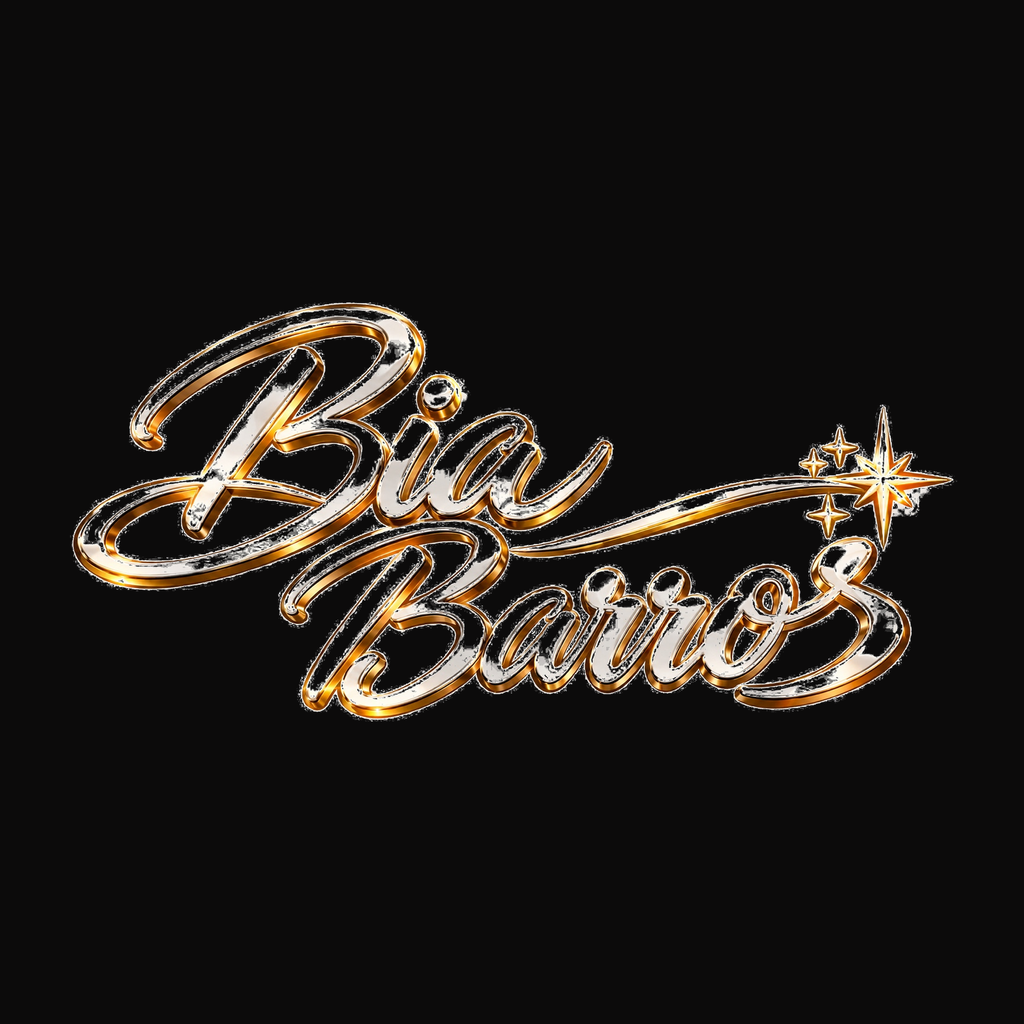
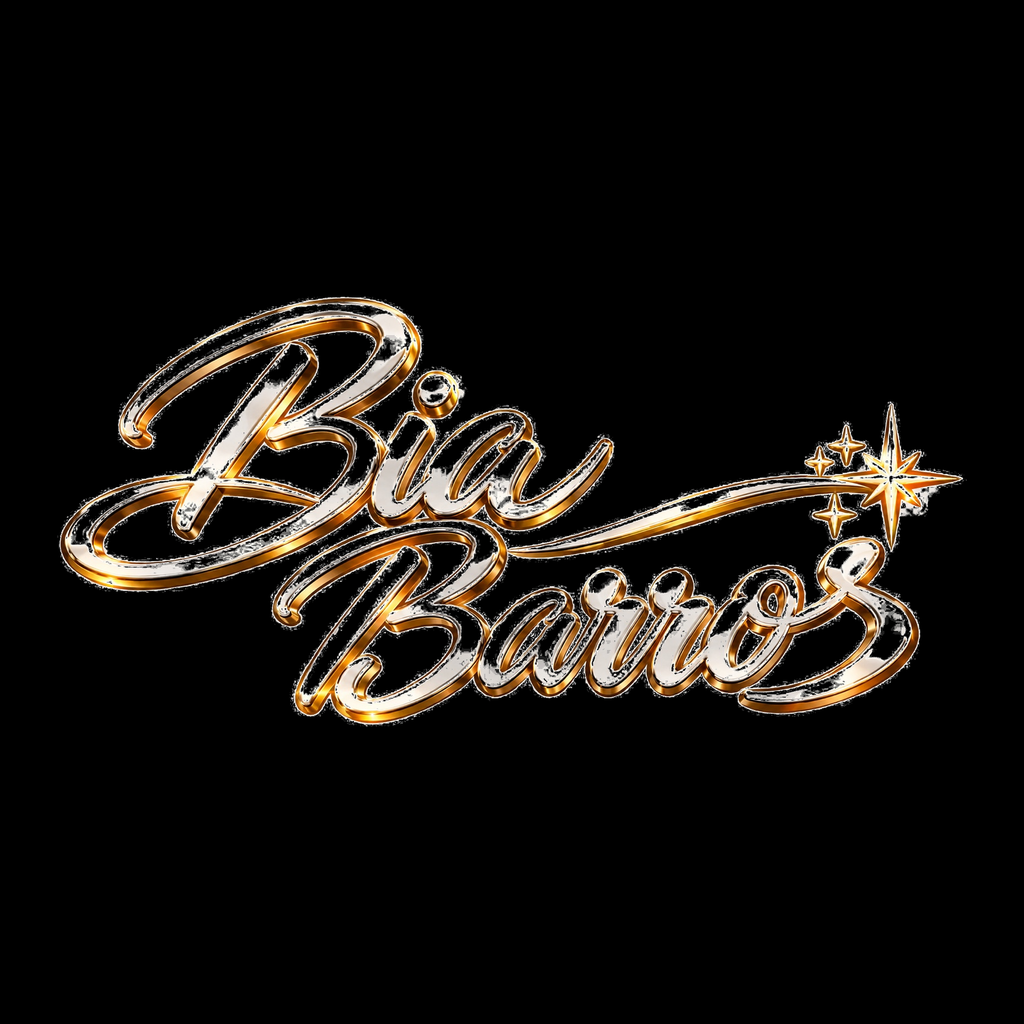
Add files via upload

Changed region(s): [[0.0625, 0.2812, 0.9375, 0.7188]]

diff --git a/app.js b/app.js
@@ -363,8 +363,8 @@
     <section class="card"><div class="section-head"><h2>Páginas e menus</h2></div><p class="small muted">Renomeie, mova para cima ou para baixo e oculte páginas. "Conta e backup" continua acessível.</p>
       ${sections.map((p,i)=>`<div class="config-row"><div class="config-name"><strong>${esc(p.label)}</strong><span class="muted small">${esc(p.id)}</span></div><div class="inline-actions">${button('Renomear','rename-page-'+p.id,'tiny')}${button('↑','page-up-'+p.id,'tiny',i===0?'disabled':'')}${button('↓','page-down-'+p.id,'tiny',i===sections.length-1?'disabled':'')}${p.id!=='ajustes'?button(p.visible===false?'Mostrar':'Ocultar','toggle-page-'+p.id,'soft tiny'):''}</div></div>`).join('')}</section>
     <section class="card" style="margin-top:16px"><div class="compact-top"><h2>Categorias das anotações</h2>${button('＋ Categoria','new-category','primary')}</div>${state.settings.categories.map(c=>`<div class="config-row"><strong>${esc(c)}</strong><div class="inline-actions">${button('Renomear','rename-category-'+encodeURIComponent(c),'tiny')}${c!=='Geral'?button('Excluir','delete-category-'+encodeURIComponent(c),'danger tiny'):''}</div></div>`).join('')}</section>
-    <section class="card" style="margin-top:16px"><div class="section-head"><h2>Campos do cadastro de shows</h2></div><p class="muted small">Renomeie, reorganize ou remova campos do formulário. Data e cidade continuam obrigatórios. Remover um campo do formulário não apaga informações de shows antigos.</p>${showFields().filter(f=>f.visible!==false).map((f,i,a)=>`<div class="config-row"><div class="config-name"><strong>${esc(f.label)}</strong><span class="muted small">${esc(f.id)}${f.visible===false?' • removido do formulário':''}</span></div><div class="inline-actions">${button('Renomear','show-label-'+f.id,'tiny')}${button('↑','show-up-'+f.id,'tiny',i===0?'disabled':'')}${button('↓','show-down-'+f.id,'tiny',i===a.length-1?'disabled':'')}${f.id==='date'||f.id==='city'?'':button('Excluir','show-toggle-'+f.id,'danger tiny')}</div></div>`).join('')}</section>
-    <section class="card" style="margin-top:16px"><div class="compact-top"><h2>Campos extras dos shows</h2>${button('＋ Campo','new-field','primary')}</div><p class="muted small">Crie novos campos de texto, data e horário, que aparecerão no cadastro e nos detalhes de cada show.</p>${state.settings.customFields.length?state.settings.customFields.map(f=>`<div class="config-row"><strong>${esc(f.label)}</strong><div class="inline-actions">${button('Editar','edit-field-'+f.id,'tiny')}${button('Excluir','delete-field-'+f.id,'danger tiny')}</div></div>`).join(''):empty('Sem campos adicionais','Adicione campos exclusivos da sua produção.')}</section>
+    <section class="card" style="margin-top:16px"><div class="compact-top"><h2>Campos do cadastro de shows</h2>${button("＋ Adicionar campo","new-field","primary")}</div><p class="muted small">Renomeie, reorganize ou remova campos do formulário. Data e cidade continuam obrigatórios. Remover um campo do formulário não apaga informações de shows antigos.</p>${showFields().filter(f=>f.visible!==false).map((f,i,a)=>`<div class="config-row"><div class="config-name"><strong>${esc(f.label)}</strong><span class="muted small">${esc(f.id)}${f.visible===false?' • removido do formulário':''}</span></div><div class="inline-actions">${button('Renomear','show-label-'+f.id,'tiny')}${button('↑','show-up-'+f.id,'tiny',i===0?'disabled':'')}${button('↓','show-down-'+f.id,'tiny',i===a.length-1?'disabled':'')}${f.id==='date'||f.id==='city'?'':button('Excluir','show-toggle-'+f.id,'danger tiny')}</div></div>`).join('')}
+      ${state.settings.customFields.map((f,i,a)=>`<div class="config-row"><div class="config-name"><strong>${esc(f.label)}</strong><span class="muted small">Campo adicionado • ${esc(f.type)}</span></div><div class="inline-actions">${button('Editar','edit-field-'+f.id,'tiny')}${button('↑','extra-up-'+f.id,'tiny',i===0?'disabled':'')}${button('↓','extra-down-'+f.id,'tiny',i===a.length-1?'disabled':'')}${button('Excluir','delete-field-'+f.id,'danger tiny')}</div></div>`).join('')}</section>
     <section class="card" style="margin-top:16px"><h2>Cor de destaque</h2><div class="inline-actions">${[['#f58b29','Âmbar'],['#eab0c9','Rosa claro'],['#54a5e4','Azul'],['#71c7a0','Verde']].map(([color,label])=>button(label,'theme-'+color,'tiny')).join('')}</div></section>`;
   }
   function categoryForm(oldName=null){
@@ -408,9 +408,10 @@
       if(a==='new-category'){categoryForm();return;}
       if(a.startsWith('rename-category-')){categoryForm(decodeURIComponent(a.slice('rename-category-'.length)));return;}
       if(a.startsWith('delete-category-')){const name=decodeURIComponent(a.slice('delete-category-'.length));confirmAction('Excluir categoria','As anotações desta categoria passarão para Geral.',()=>{state.settings.categories=state.settings.categories.filter(c=>c!==name);state.notes.forEach(n=>{if(n.category===name)n.category='Geral';});if(notesFilter===name)notesFilter='Todas';save();});return;}
+      if(a.startsWith('extra-up-')||a.startsWith('extra-down-')){const up=a.startsWith('extra-up-'),id=a.slice(up?9:11),items=state.settings.customFields,i=items.findIndex(f=>f.id===id),j=i+(up?-1:1);if(i>=0&&j>=0&&j<items.length){[items[i],items[j]]=[items[j],items[i]];save();render();}return;}
       if(a==='new-field'){fieldForm();return;}
       if(a.startsWith('edit-field-')){fieldForm(state.settings.customFields.find(f=>f.id===a.slice('edit-field-'.length)));return;}
-      if(a.startsWith('delete-field-')){const id=a.slice('delete-field-'.length);confirmAction('Excluir campo','Excluir o campo personalizado e os seus valores em todos os shows?',()=>{state.settings.customFields=state.settings.customFields.filter(f=>f.id!==id);state.events.forEach(e=>{if(e.extra)delete e.extra[id];});save();});return;}
+      if(a.startsWith('delete-field-')){const id=a.slice('delete-field-'.length);confirmAction('Excluir campo','Remover este campo do cadastro? Os valores dos shows antigos serão preservados.',()=>{state.settings.customFields=state.settings.customFields.filter(f=>f.id!==id);save();});return;}
       if(a.startsWith('rename-page-')){renamePage(a.slice('rename-page-'.length));return;}
       if(a.startsWith('toggle-page-')){const p=state.settings.pages.find(p=>p.id===a.slice('toggle-page-'.length));if(p&&p.id!=='ajustes'){p.visible=p.visible===false?true:false;save();render();}return;}
       if(a.startsWith('page-up-')||a.startsWith('page-down-')){const id=a.slice(a.startsWith('page-up-')?8:10),list=state.settings.pages,i=list.findIndex(p=>p.id===id),j=i+(a.startsWith('page-up-')?-1:1);if(i>=0&&j>=0&&j<list.length){[list[i],list[j]]=[list[j],list[i]];save();render();}return;}

diff --git a/index.html b/index.html
@@ -3,14 +3,14 @@
 <head>
   <meta charset="UTF-8" />
   <meta name="viewport" content="width=device-width, initial-scale=1, viewport-fit=cover" />
-  <meta name="theme-color" content="#111010" />
+  <meta name="theme-color" content="#000000" />
   <meta name="description" content="Agenda, riders e logística dos shows Bia Barros" />
   <meta name="apple-mobile-web-app-capable" content="yes" />
   <meta name="apple-mobile-web-app-status-bar-style" content="black-translucent" />
   <meta name="apple-mobile-web-app-title" content="Bia Produção" />
-  <link rel="icon" type="image/png" href="./icon.png?v=original4k" />
-  <link rel="apple-touch-icon" href="./apple-touch-icon.png?v=original4k" sizes="180x180" />
-  <link rel="manifest" href="./manifest.webmanifest" />
+  <link rel="icon" type="image/png" href="./icon.png?v=iconepretohd12" />
+  <link rel="apple-touch-icon" href="./apple-touch-icon.png?v=iconepretohd12" sizes="180x180" />
+  <link rel="manifest" href="./manifest.webmanifest?v=iconepretohd12" />
   <link rel="stylesheet" href="./style.css" />
   <title>Bia Barros • Produção de Estrada</title>
 </head>

diff --git a/sw.js b/sw.js
@@ -1,4 +1,4 @@
-const VERSION='bia-barros-producao-listas-itens-v11';
+const VERSION='bia-barros-producao-iconblack-v12';
 const BASE=self.registration.scope;
 const FILES=['./','./index.html','./app.js','./style.css','./logo.png','./icon.png','./icon-512.png','./icon-1024.png','./apple-touch-icon.png','./manifest.webmanifest'];
 self.addEventListener('install',ev=>ev.waitUntil(caches.open(VERSION).then(cache=>cache.addAll(FILES)).then(()=>self.skipWaiting())));
